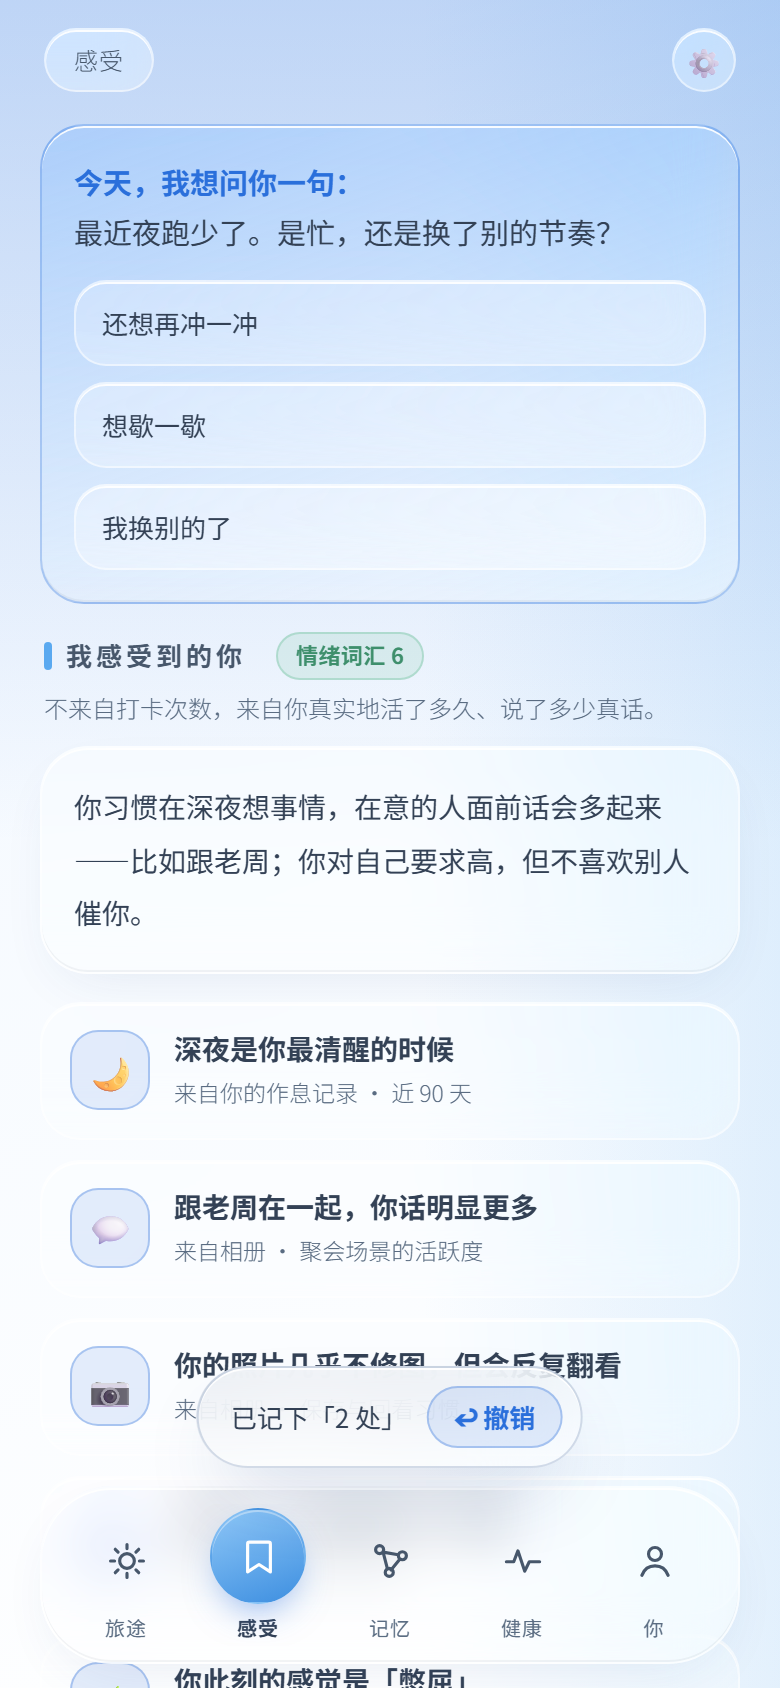
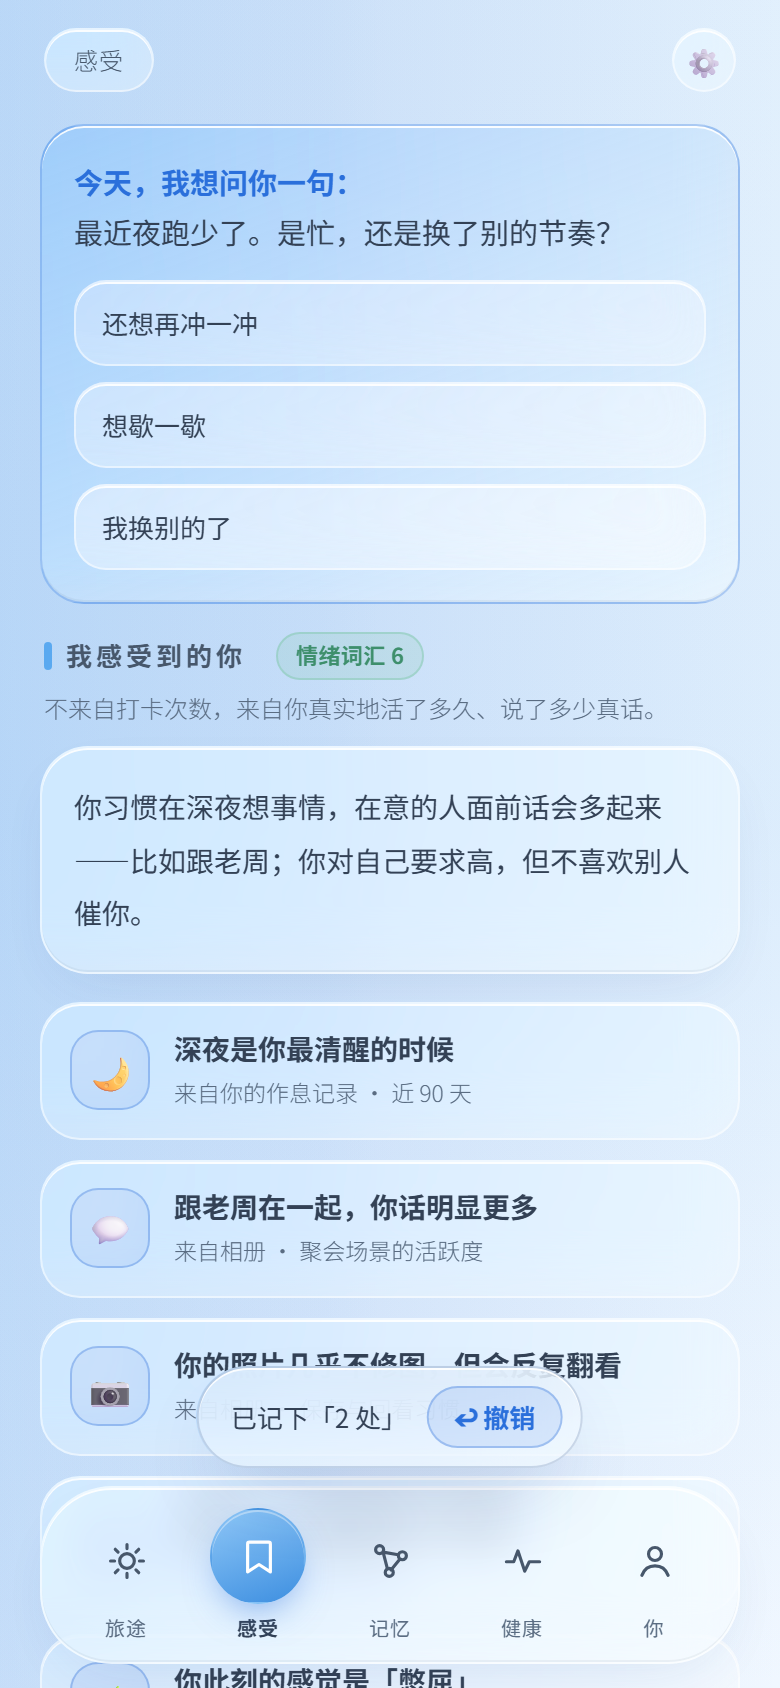
style: 空闲态输入框更明确

diff --git a/prototype/index.html b/prototype/index.html
@@ -2159,6 +2159,29 @@
   .plus-txt{display:flex;flex-direction:column;line-height:1.3;}
   .plus-txt b{font-weight:500;}
   .plus-txt i{font-style:normal;font-size:10.5px;color:var(--text-faint);}
+  /* ==========================================================================
+     v105 · 空闲态的输入框要看得出来是个可以点的地方
+     原来浅色 .42 白底 + 白描边，贴在浅蓝背景上几乎隐形。
+     底提到 .82、描边换成带蓝的深边、补一层投影做出「浮起」。
+     ========================================================================== */
+  .chat-input{
+    background:var(--glass-bg);
+    border-color:var(--glass-border);
+    box-shadow:0 12px 30px -20px rgba(20,50,90,.55), inset 0 1px 0 var(--glass-hi);
+  }
+  :root[data-theme="light"] .chat-input{
+    background:rgba(255,255,255,.82);
+    border-color:rgba(30,64,130,.16);
+    box-shadow:0 14px 32px -20px rgba(20,50,90,.42), inset 0 1px 0 rgba(255,255,255,.95);
+  }
+  /* 聚焦时再亮一档，点下去有回应 */
+  /* v105：占位文字原来太淡，和「这里能打字」的暗示不匹配 */
+.chat-text::placeholder{color:var(--text-dim);opacity:.72;}
+.chat-input:focus-within{
+    border-color:rgba(42,111,219,.42);
+    box-shadow:0 14px 32px -18px rgba(42,111,219,.34), inset 0 1px 0 rgba(255,255,255,.95), 0 0 0 3px rgba(42,111,219,.1);
+  }
+
 .chat-input.voice-mode .vn {
   width: 100% !important;
   height: 38px;
@@ -2494,11 +2517,13 @@
   .chat-input{
     background:var(--glass-bg);border:1px solid var(--glass-border);border-radius:20px;
     -webkit-backdrop-filter:var(--glass-blur);backdrop-filter:var(--glass-blur);
-    box-shadow:inset 0 1px 0 var(--glass-hi), inset 0 -1px 0 var(--glass-lo), var(--shadow);
+    /* v105：空闲态也要看得出是输入区，补一层外投影让它浮起来 */
+    box-shadow:0 12px 30px -20px rgba(0,10,30,.6), inset 0 1px 0 var(--glass-hi), inset 0 -1px 0 var(--glass-lo);
   }
   :root[data-theme="light"] .chat-input{
     /* v81：输入框改半透明玻璃（气泡仍实心白，保证收发可区分） */
-    background:rgba(255,255,255,.62);border:1px solid rgba(255,255,255,.7);
+    /* v105：原来 .62 + 白描边贴在浅蓝背景上几乎隐形，底提到 .82、边换成带蓝的深边 */
+    background:rgba(255,255,255,.82);border:1px solid rgba(30,64,130,.2);
     /* v90：模糊加深一点，让从下方穿过的内容彻底化开，不再和输入框抢注意力 */
     -webkit-backdrop-filter:blur(18px) saturate(150%);backdrop-filter:blur(18px) saturate(150%);
     box-shadow:0 10px 28px -10px rgba(30,64,130,.22), inset 0 1px 0 rgba(255,255,255,.9);
